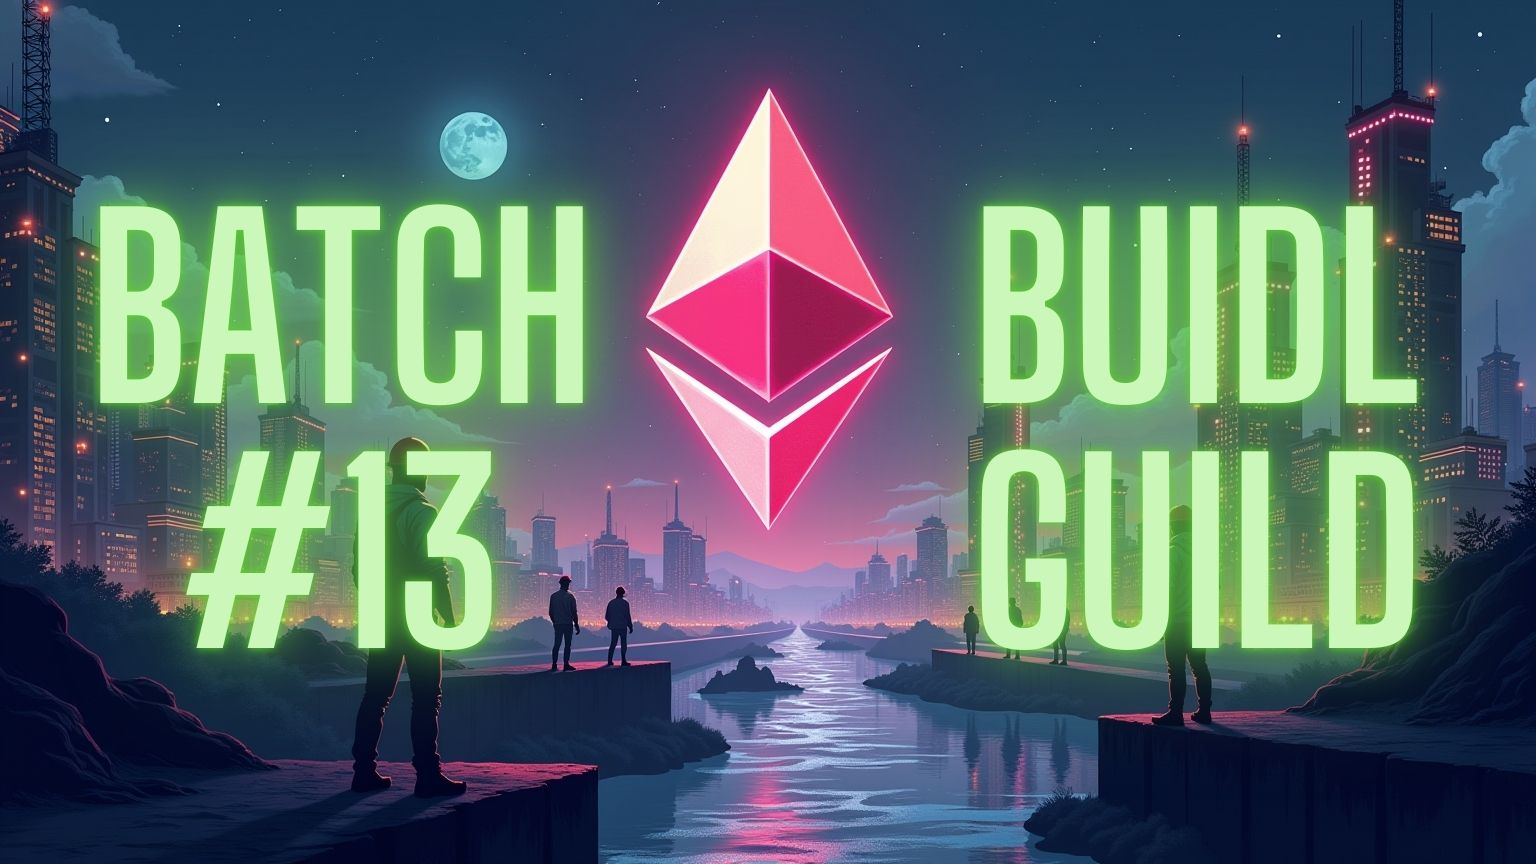
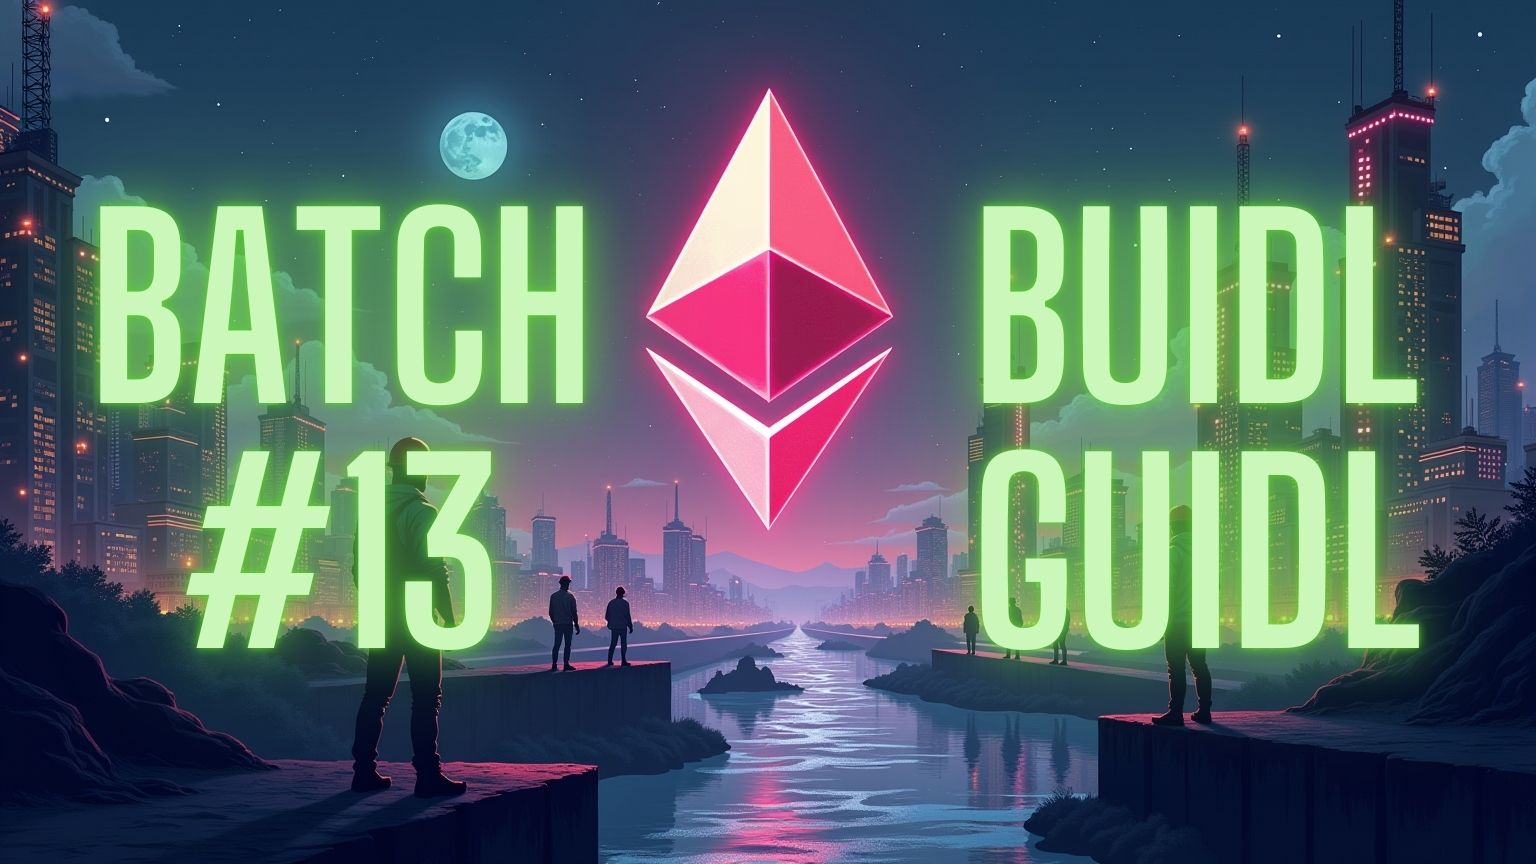
Typo fix

Changed region(s): [[0.8125, 0.5, 0.9375, 0.7812]]

diff --git a/packages/nextjs/app/layout.tsx b/packages/nextjs/app/layout.tsx
@@ -5,9 +5,9 @@ import "~~/styles/globals.css";
 import { getMetadata } from "~~/utils/scaffold-eth/getMetadata";
 
 export const metadata = getMetadata({
-  title: "Batch #13 - BuidlGuild 🏰🧑🏫",
+  title: "Batch #13 - BuidlGuidl 🏰🧑🏫",
   description:
-    "🚀🏰 BuidlGuild Batch 13: A passionate group of BuidlGuild builders learning and working together! Built with Scaffold ETH 2 🏰🚀",
+    "🚀🏰 BuidlGuidl Batch 13: A passionate group of BuidlGuidl builders learning and working together! Built with Scaffold ETH 2 🏰🚀",
 });
 
 const ScaffoldEthApp = ({ children }: { children: React.ReactNode }) => {
